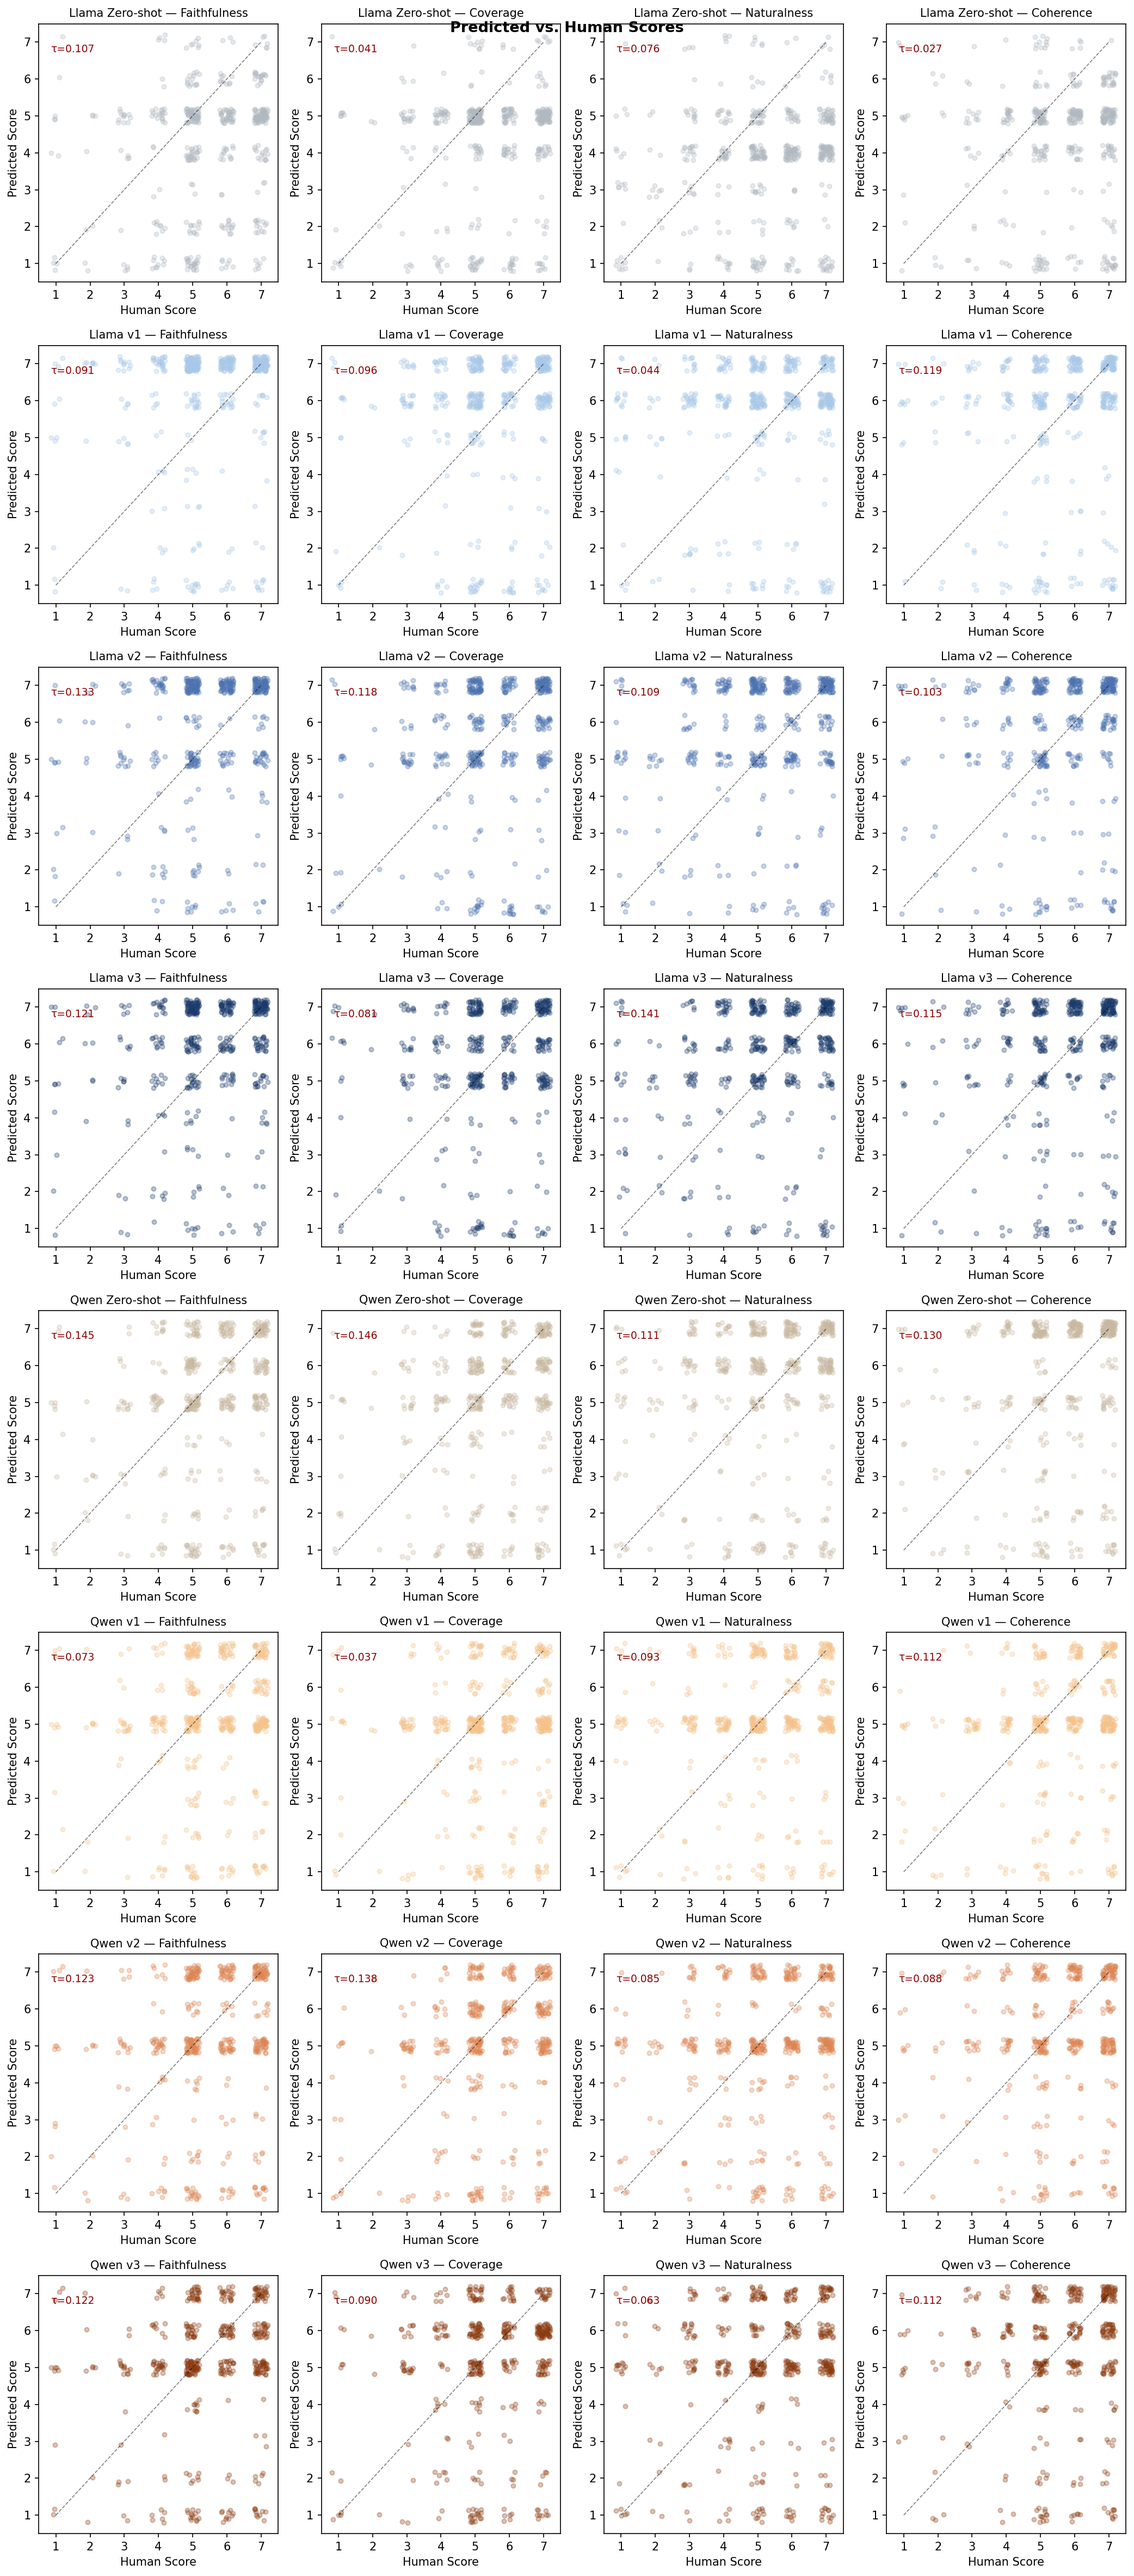
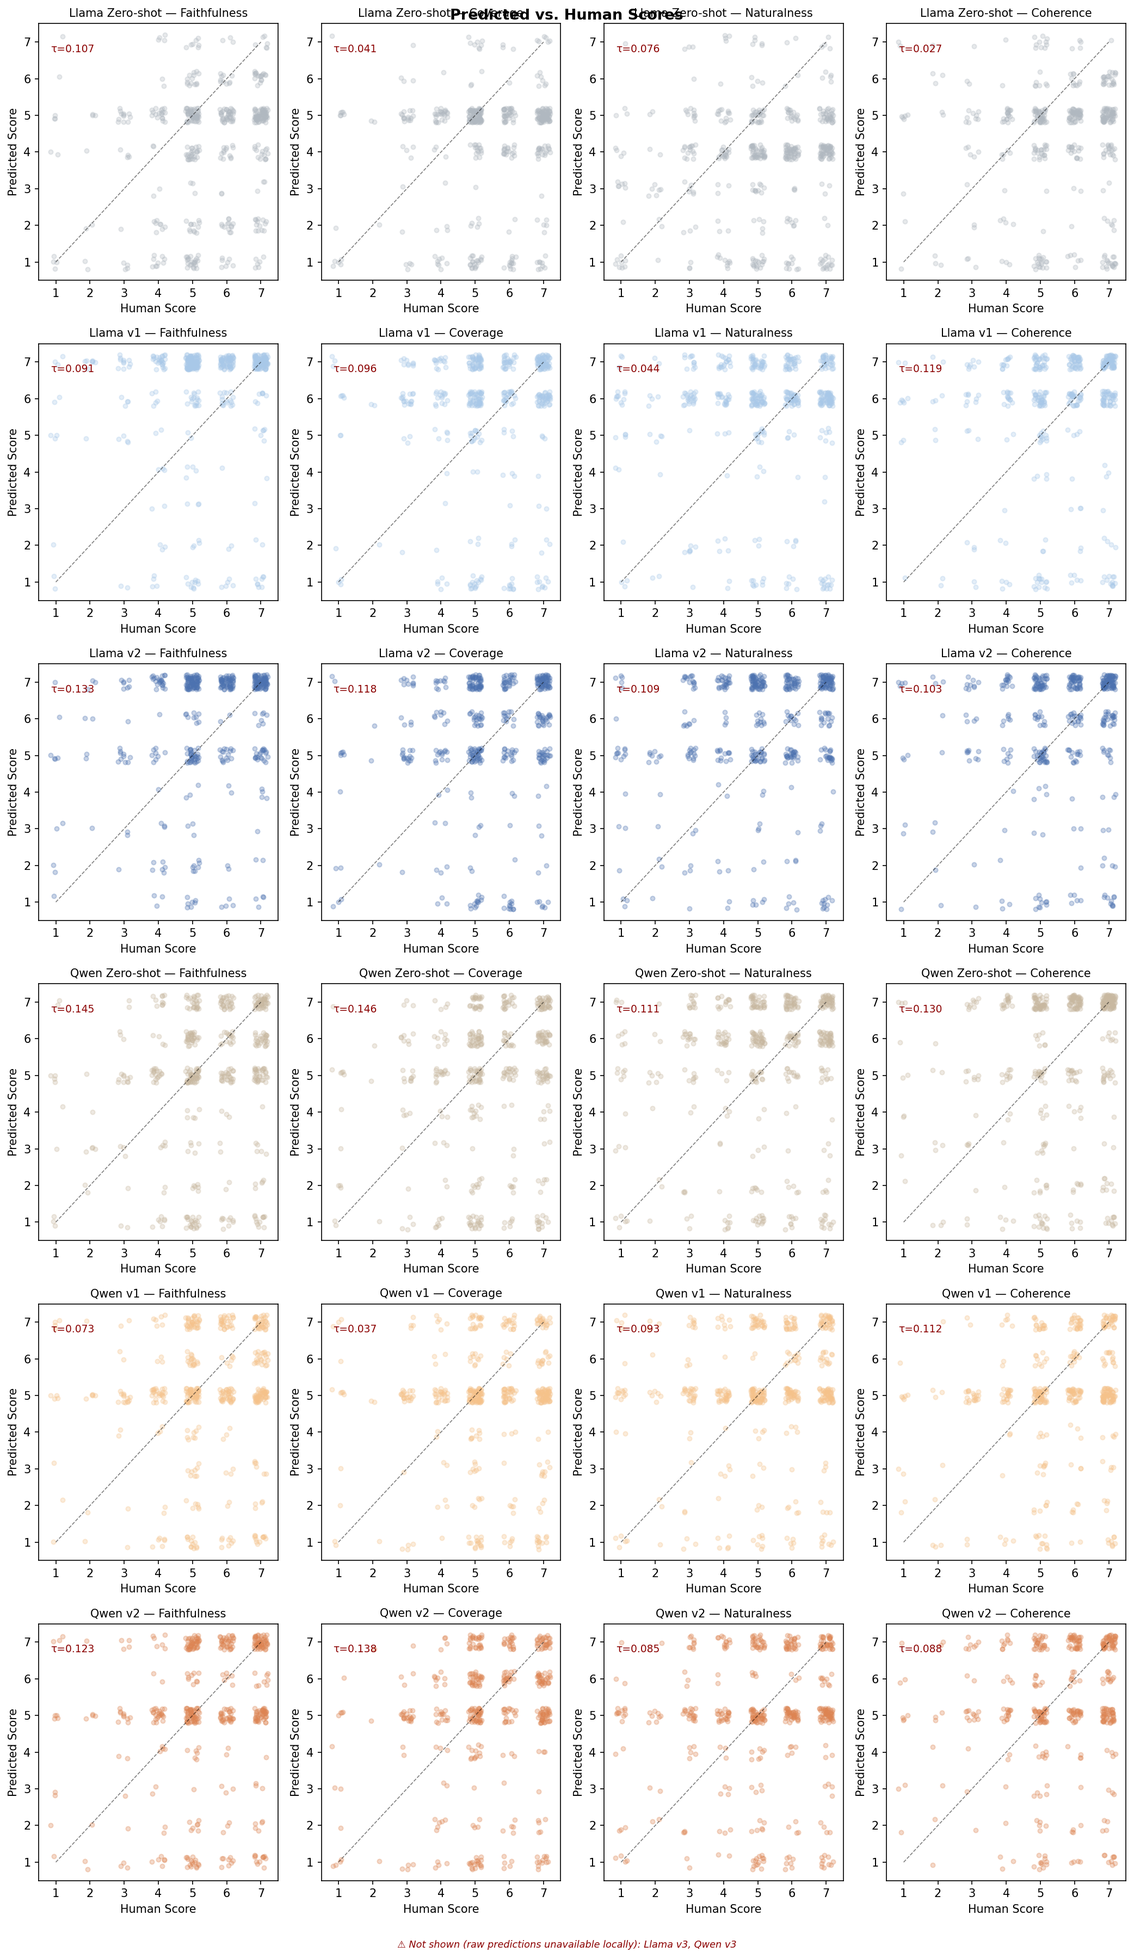
Document v3 known issue, default predict.py to quantized, annotate charts
- README: add "Version History & Known Issues" section explaining v1/v2/v3,
  and the leading hypothesis for why v3's per-epoch dev-tau log collapses
  (train/eval precision mismatch) while its test-set results look normal.
- eval/predict.py: quantize to 4-bit NF4 by default (was full-precision by
  default), matching train.py's TauCallback so future runs evaluate under
  the same precision. Old default is available via --full-precision.
  Note: existing tau_report.json entries were generated under the old
  default and aren't directly comparable to future quantized-default runs.
- viz/plot_training.py: flag v3 dev-tau series in tau_curves.png (faded,
  hatched, warning footnote) since that log is unreliable; fix the stale
  "v1 vs v2" title/labels on version_comparison.png now that it plots all
  versions; surface (instead of silently dropping) any prediction files
  missing locally in scatter/distribution plots; regenerate all 6 figures.
- .gitignore: exclude .DS_Store.

diff --git a/viz/plot_training.py b/viz/plot_training.py
@@ -62,6 +62,21 @@ LABELS = {
 
 LINESTYLES = {"v1": "--", "v2": "-", "v3": "-.", "zero": ":"}
 
+# ── Known-issue registry ───────────────────────────────────────────────────────
+# Per-epoch dev-tau logs (logs/*_tau_log.json) affected by a known train/eval
+# precision mismatch: TauCallback evaluates the 4-bit quantized training model,
+# while eval/predict.py (used for tau_report.json / test-set numbers) evaluates
+# an unquantized reload by default. Once generation is hard-restricted to 7
+# candidate tokens, this precision gap is enough to flip the argmax, so these
+# curves read as near-random even though the corresponding test-set results in
+# eval/outputs/tau_report.json are normal. See README § Version History & Known
+# Issues. Only affects the *_tau_log.json curves — tau_report.json entries for
+# the same versions are NOT flagged here because they come from predict.py.
+KNOWN_ISSUES = {
+    "llama_v3": "dev-τ log unreliable (train/eval precision mismatch) — see README",
+    "qwen_v3":  "dev-τ log unreliable (train/eval precision mismatch) — see README",
+}
+
 
 def get_color(name: str) -> str:
     return COLORS.get(name, "#555555")
@@ -98,13 +113,17 @@ def load_predictions(name: str) -> list[dict] | None:
 
 def plot_tau_curves(logs: dict[str, list[dict]]) -> None:
     fig, axes = plt.subplots(1, 2, figsize=(14, 5))
+    flagged_present = [n for n in logs if n in KNOWN_ISSUES]
 
     ax = axes[0]
     for name, log in logs.items():
         epochs = [e["epoch"] for e in log]
         taus   = [e.get("tau_average", float("nan")) for e in log]
-        ax.plot(epochs, taus, marker="o", label=get_label(name),
-                color=get_color(name), linestyle=get_linestyle(name), linewidth=2)
+        flagged = name in KNOWN_ISSUES
+        label = ("⚠ " if flagged else "") + get_label(name)
+        ax.plot(epochs, taus, marker="x" if flagged else "o", label=label,
+                color=get_color(name), linestyle=get_linestyle(name),
+                linewidth=2, alpha=0.45 if flagged else 1.0)
     ax.set_xlabel("Epoch")
     ax.set_ylabel("Kendall's τ (average)")
     ax.set_title("Average Tau vs. Epoch", fontsize=12, fontweight="bold")
@@ -120,8 +139,11 @@ def plot_tau_curves(logs: dict[str, list[dict]]) -> None:
     for i, (name, log) in enumerate(logs.items()):
         last = log[-1]
         vals = [last.get(d, float("nan")) for d in DIMS]
-        ax.bar(x + offsets[i], vals, width, label=get_label(name),
-               color=get_color(name), alpha=0.85, edgecolor="white")
+        flagged = name in KNOWN_ISSUES
+        label = ("⚠ " if flagged else "") + get_label(name)
+        ax.bar(x + offsets[i], vals, width, label=label,
+               color=get_color(name), alpha=0.45 if flagged else 0.85,
+               edgecolor="white", hatch="///" if flagged else None)
     ax.set_xticks(x)
     ax.set_xticklabels([d.capitalize() for d in DIMS])
     ax.set_ylabel("Kendall's τ")
@@ -131,6 +153,11 @@ def plot_tau_curves(logs: dict[str, list[dict]]) -> None:
     ax.axhline(0, color="gray", linestyle="--", linewidth=0.8)
 
     fig.suptitle("Training Progress: Tau Correlation with Human Ratings", fontsize=13, fontweight="bold")
+    if flagged_present:
+        fig.text(0.5, -0.02,
+                  "⚠ Faded/hatched series (v3): dev-τ log unreliable due to a known train/eval precision "
+                  "mismatch — see README § Version History & Known Issues. Test-set results are unaffected.",
+                  ha="center", fontsize=8.5, color="#8B0000", style="italic")
     plt.tight_layout()
     path = FIG_DIR / "tau_curves.png"
     fig.savefig(path, dpi=150, bbox_inches="tight")
@@ -138,7 +165,10 @@ def plot_tau_curves(logs: dict[str, list[dict]]) -> None:
     print(f"Saved: {path}")
 
 
-# ── 2. Test-set v1 vs v2 comparison ──────────────────────────────────────────
+# ── 2. Test-set version comparison ───────────────────────────────────────────
+# Built from eval/outputs/tau_report.json (predict.py output) — these numbers
+# are NOT affected by the v3 dev-τ known issue (see KNOWN_ISSUES above), so
+# nothing here needs to be flagged.
 
 def plot_version_comparison(reports: list[dict]) -> None:
     metrics = DIMS + ["tau_average"]
@@ -160,7 +190,7 @@ def plot_version_comparison(reports: list[dict]) -> None:
     ax.set_xticks(x)
     ax.set_xticklabels(metric_labels)
     ax.set_ylabel("Kendall's τ")
-    ax.set_title("Test Tau: v1 vs v2", fontsize=12, fontweight="bold")
+    ax.set_title("Test Tau by Version", fontsize=12, fontweight="bold")
     ax.legend()
     ax.grid(axis="y", alpha=0.3)
     ax.axhline(0, color="gray", linestyle="--", linewidth=0.8)
@@ -176,12 +206,13 @@ def plot_version_comparison(reports: list[dict]) -> None:
                 f"{acc:.3f}", ha="center", va="bottom", fontsize=10)
     ax.axhline(0.5, color="gray", linestyle="--", linewidth=0.8, label="Random (0.5)")
     ax.set_ylabel("Ranking Accuracy")
-    ax.set_title("Ranking Accuracy: v1 vs v2", fontsize=12, fontweight="bold")
+    ax.set_title("Ranking Accuracy by Version", fontsize=12, fontweight="bold")
     ax.set_ylim(0, 1)
     ax.legend()
     ax.grid(axis="y", alpha=0.3)
+    plt.setp(ax.get_xticklabels(), rotation=30, ha="right", fontsize=8.5)
 
-    fig.suptitle("Test Set Performance: Before vs After Hyperparameter Tuning",
+    fig.suptitle("Test Set Performance Across Versions (zero-shot / v1 / v2 / v3)",
                  fontsize=13, fontweight="bold")
     plt.tight_layout()
     path = FIG_DIR / "version_comparison.png"
@@ -192,7 +223,7 @@ def plot_version_comparison(reports: list[dict]) -> None:
 
 # ── 3. Predicted vs. human score scatter plot ─────────────────────────────────
 
-def plot_scatter(preds_map: dict[str, list[dict]]) -> None:
+def plot_scatter(preds_map: dict[str, list[dict]], missing: list[str] | None = None) -> None:
     n_models = len(preds_map)
     fig, axes = plt.subplots(n_models, 4, figsize=(14, 4 * n_models))
     if n_models == 1:
@@ -224,6 +255,10 @@ def plot_scatter(preds_map: dict[str, list[dict]]) -> None:
                         fontsize=9, verticalalignment="top", color="darkred")
 
     fig.suptitle("Predicted vs. Human Scores", fontsize=13, fontweight="bold")
+    if missing:
+        fig.text(0.5, -0.01,
+                  f"⚠ Not shown (raw predictions unavailable locally): {', '.join(get_label(m) for m in missing)}",
+                  ha="center", fontsize=8.5, color="#8B0000", style="italic")
     plt.tight_layout()
     path = FIG_DIR / "scatter_pred_vs_human.png"
     fig.savefig(path, dpi=150, bbox_inches="tight")
@@ -246,7 +281,7 @@ def _tau(xs, ys) -> float:
 
 # ── 4. Score distribution comparison ─────────────────────────────────────────
 
-def plot_score_dist_comparison(preds_map: dict[str, list[dict]]) -> None:
+def plot_score_dist_comparison(preds_map: dict[str, list[dict]], missing: list[str] | None = None) -> None:
     fig, axes = plt.subplots(1, 4, figsize=(14, 4))
     x = np.arange(1, 8)
     n_bars = 1 + len(preds_map)
@@ -278,6 +313,10 @@ def plot_score_dist_comparison(preds_map: dict[str, list[dict]]) -> None:
         ax.legend(fontsize=7)
 
     fig.suptitle("Score Distribution: Predicted vs. Human", fontsize=13, fontweight="bold")
+    if missing:
+        fig.text(0.5, -0.02,
+                  f"⚠ Not shown (raw predictions unavailable locally): {', '.join(get_label(m) for m in missing)}",
+                  ha="center", fontsize=8.5, color="#8B0000", style="italic")
     plt.tight_layout()
     path = FIG_DIR / "score_distribution_comparison.png"
     fig.savefig(path, dpi=150, bbox_inches="tight")
@@ -396,16 +435,20 @@ def main() -> None:
         return
 
     # inference result visualizations
+    all_pred_names = ("llama-zero-shot", "llama-judge-v1", "llama-judge-v2", "llama-judge-v3",
+                       "qwen-zero-shot",  "qwen-judge-v1",  "qwen-judge-v2",  "qwen-judge-v3")
     preds_map: dict[str, list[dict]] = {}
-    for name in ("llama-zero-shot", "llama-judge-v1", "llama-judge-v2", "llama-judge-v3",
-                 "qwen-zero-shot",  "qwen-judge-v1",  "qwen-judge-v2",  "qwen-judge-v3"):
+    for name in all_pred_names:
         preds = load_predictions(name)
         if preds:
             preds_map[name] = preds
+    missing_preds = [n for n in all_pred_names if n not in preds_map]
+    if missing_preds:
+        print(f"Note: raw predictions unavailable locally, skipping in scatter/distribution plots: {missing_preds}")
 
     if preds_map:
-        plot_scatter(preds_map)
-        plot_score_dist_comparison(preds_map)
+        plot_scatter(preds_map, missing=missing_preds)
+        plot_score_dist_comparison(preds_map, missing=missing_preds)
 
     # tau report (version comparison + radar)
     tau_report_path = PRED_DIR / "tau_report.json"

diff --git a/eval/predict.py b/eval/predict.py
@@ -56,12 +56,18 @@ def main() -> None:
     parser.add_argument("--model-name", required=True, help="output filename (without extension)")
     parser.add_argument("--split",      default="test", choices=["dev", "test"])
     parser.add_argument("--limit",      type=int, default=None, help="only run inference on first N samples (for debugging)")
-    parser.add_argument("--use-4bit",   action="store_true")
+    parser.add_argument("--full-precision", action="store_true",
+                        help="disable 4-bit quantization (default: quantized, matching train.py's QLoRA setup). "
+                             "Use this only to deliberately compare against the quantized numbers — see README "
+                             "'Version History & Known Issues' for why the two must otherwise stay aligned.")
     args = parser.parse_args()
 
     # ── Load tokenizer + model ────────────────────────────────────────────────
+    # Quantized by default so eval precision matches train.py's TauCallback (both 4-bit NF4).
+    # A train/eval precision mismatch here previously caused v3's dev-tau log to look broken
+    # while predict.py's (then-unquantized) test results looked fine — see README known issues.
     bnb_cfg = None
-    if args.use_4bit:
+    if not args.full_precision:
         bnb_cfg = BitsAndBytesConfig(
             load_in_4bit=True,
             bnb_4bit_compute_dtype=torch.bfloat16,

diff --git a/README.md b/README.md
@@ -146,6 +146,8 @@ python eval/predict.py \
 
 Both modes use a `DigitOnlyLogitsProcessor` that restricts generation to tokens `1`–`7`, preventing the model from continuing in the input language.
 
+Both modes also **quantize to 4-bit NF4 by default**, matching the precision `train.py` trains and dev-evaluates under (see Known Issues below). Pass `--full-precision` to load the model unquantized instead — mainly useful for deliberately comparing quantized vs. full-precision numbers.
+
 ### 5. Compute evaluation metrics
 
 ```bash
@@ -246,6 +248,32 @@ Both models use QLoRA (4-bit NF4) + LoRA. Key hyperparameters (v2):
 | Ranking accuracy | Pairwise ranking agreement across generator models (0.5 = random) |
 
 Zero-shot baselines (base model without fine-tuning) are included for comparison.
+
+## Version History & Known Issues
+
+Both models have gone through 3 training rounds so far. All logs/results are kept (`logs/*_v1/v2/v3_tau_log.json`, `eval/outputs/*-judge-v1/v2/v3.json`) for traceability — nothing has been overwritten.
+
+| Version | What changed | Status |
+|---------|-------------|--------|
+| v1 | Initial LoRA config (r=16, 5 epochs, lr=2e-4) | Baseline, superseded |
+| v2 | Tuned LoRA config for better generalization (higher rank/alpha, more target modules, 8 epochs, lower lr, more warmup) — see `train/configs/*.yaml` history | Best test-set result so far |
+| v3 | **Same config as v2** (only `output_dir` renamed). The actual change was in the *evaluation* code: `TauCallback.evaluate_tau` in `train/train.py` was switched from free-form generation (`max_new_tokens=4` + regex) to the same digit-only constrained decoding used by `eval/predict.py` (`max_new_tokens=1` + `DigitOnlyLogitsProcessor`), so training-time dev metrics would be measured the same way as the final test-set metrics. | See known issue below |
+
+### Known issue: v3's per-epoch dev τ log is unreliable
+
+`logs/llama_v3_tau_log.json` and `logs/qwen_v3_tau_log.json` show dev τ collapsing to near-zero/random from epoch 1 onward (e.g. llama: 0.02 vs. v2's 0.16; qwen: 0.01 vs. v2's 0.32; `naturalness` even goes negative). This looks like a training failure, **but it isn't** — `eval/predict.py` run on the same final `adapter_final` checkpoints gives normal, v2-comparable test τ (llama 0.114, qwen 0.097; see `eval/outputs/tau_report.json`).
+
+Leading hypothesis: a **quantization precision mismatch** between the two evaluation call sites.
+- `train/train.py`'s `TauCallback` calls `model.generate()` on the model **as loaded for training** — 4-bit NF4 quantized (`use_4bit: true` in the config).
+- `eval/predict.py` used to load the adapter **without quantization** by default.
+
+Once generation is hard-restricted to only 7 candidate tokens (digits 1–7), the choice becomes very sensitive to small logit differences — quantization noise is enough to flip the argmax during training-time eval, while a full-precision pass doesn't have that noise. This would explain why the *dev* curve looks broken but the *test* numbers don't.
+
+**Status: fixed, not yet re-verified.** The v3 `adapter_final` checkpoints were lost in a remote instance reset before this could be confirmed directly (re-running `predict.py` under quantization on the *same* v3 weights would have been the clean test). As of this commit, `eval/predict.py` now **quantizes by default** (4-bit NF4, matching `train.py`'s `TauCallback`) — pass `--full-precision` to opt out. This means:
+- Going forward, `TauCallback` and `predict.py` evaluate under the same precision, so a v4 dev-τ curve that stays healthy (instead of collapsing like v3's) would confirm the hypothesis.
+- The **existing** `eval/outputs/tau_report.json` numbers for zero-shot/v1/v2/v3 were all generated under the *old* full-precision default — they are not directly comparable to future quantized-default runs. Re-run `predict.py` (now quantized by default) on the still-available v1/v2 adapters if you need a like-for-like comparison against v4.
+
+**Practical takeaway for now**: trust `eval/outputs/tau_report.json` (test-set, from `predict.py`) over the `logs/*_v3_tau_log.json` per-epoch curves — the latter should not be used to judge whether v3 training "worked." A v4 run is planned now that `TauCallback` and `predict.py` evaluate under matching precision; v1–v3 artifacts stay untouched for comparison.
 
 ## Requirements
 
